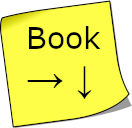
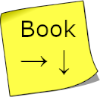
I forgor :skull:

diff --git a/main.py b/main.py
@@ -1544,7 +1544,7 @@ class Game:
 
         # Note
         note = pygame.image.load("img/safe_note.png")
-        note_rect = note.get_rect(x=10, y=87)
+        note_rect = note.get_rect(x=141, y=3)
 
         # Number buttons
         one = pygame.image.load("img/b_one.png")
